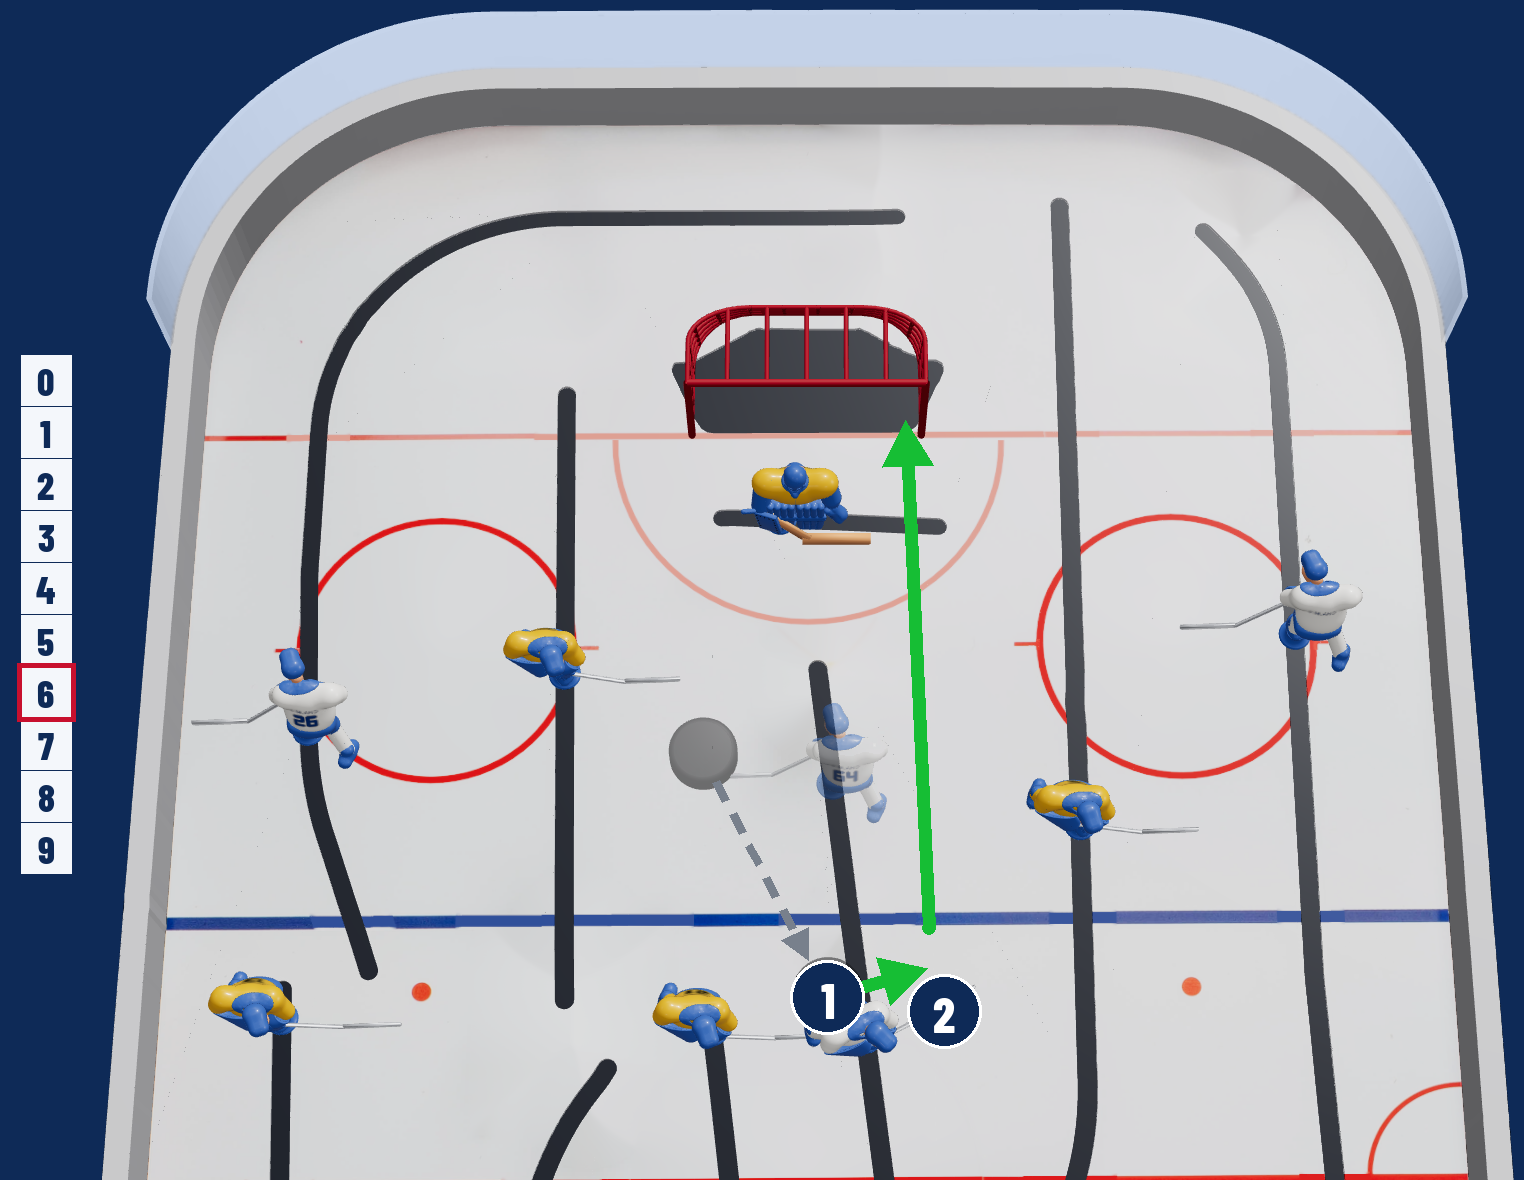
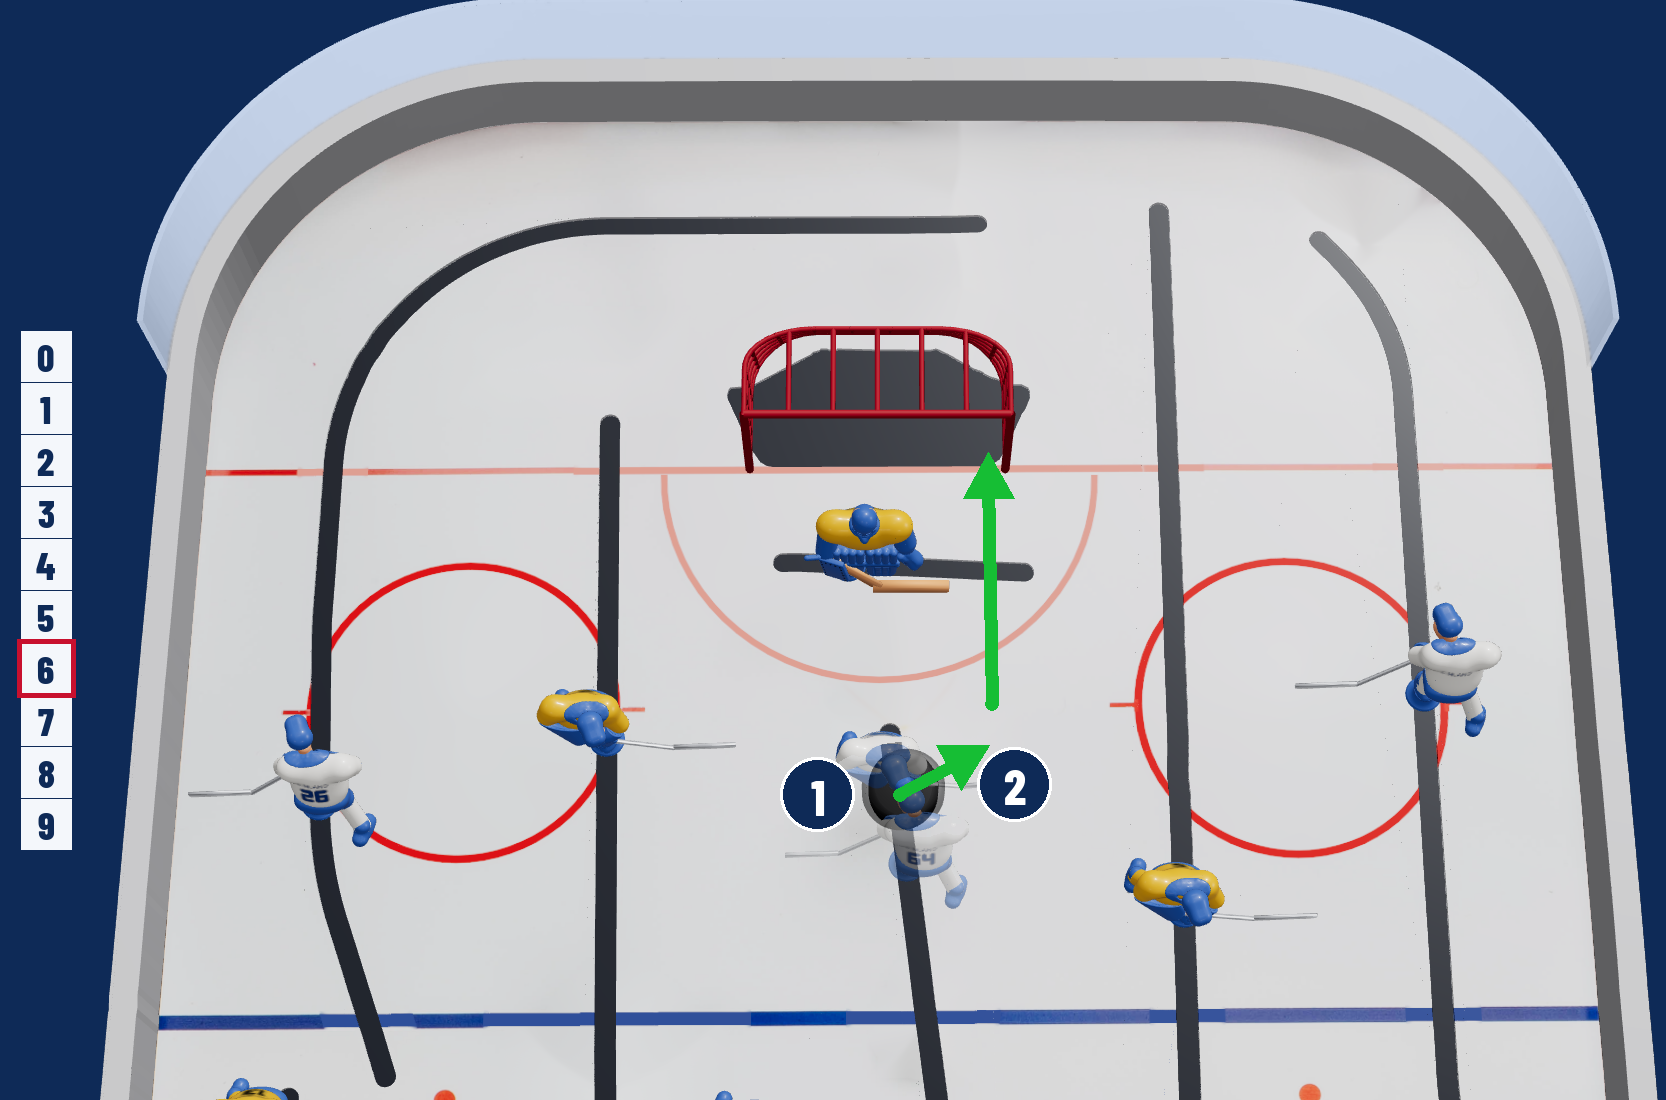
Move pictures: fakie centre tricks start with the puck centred on the slot line
Claude-Session: https://claude.ai/code/session_01BNTiwfvDFK1dJGset6TA2u

diff --git a/scripts/move-pictures/build.py b/scripts/move-pictures/build.py
@@ -394,6 +394,8 @@ def draw(spec, geo):
     marks = {k: np.array(p) for k, p in pts.items() if k.isdigit()}  # where each numbered circle goes
     # a set grip must stay visible: its circle steps to the side, away from the figure, and the arrow starts at the puck
     grips = {str(c["n"]) for c in spec.get("contacts", []) if "puck_local_mm" in c}
+    if "ghost" in geo:  # the start under the ghost stays visible too
+        grips.add(geo["ghost"]["to"])
     for k in grips:
         marks[k] = marks[k] + np.array([-(2 * r + 14), 0.0])
     for a in geo["arrows_mm"]:

diff --git a/docs/move-pictures.md b/docs/move-pictures.md
@@ -107,11 +107,12 @@ Six pictures redrawn after the user's comments on the review page:
   groove, Edwall) or between the stick and the skate (stick groove, Lindahl). Grip positions are ASSUMED from the
   skater keypoints (`data/figure-keypoints.json`). The contact's circle steps aside so the grip stays visible. New view
   `deep` (x 0-446 mm) shows the back of the slots.
-- Fakie Lillstøvel, Näcka, Omvendspjass and Spjass: played from the middle of the centre's slot (the user: impossible
-  from further forward).
+- Fakie Lillstøvel, Näcka, Omvendspjass and Spjass: the puck starts centred ACROSS the centre's slot (on its line), at
+  the same height as the normal move, so the normal and the fakie move share one start (the user's correction of a
+  first try that moved the trick to the middle of the slot's length).
 On the page the redone moves go back to "not reviewed" with the user's comment kept and a "Redrawn" note.
 - Start position of the fakie centre tricks (user's choice 2026-10-14, "ghost + dashed"): spec field `ghost` (figure,
   facing, puck in the start groove). `build.py` adds a second render job `<id>-ghost` with the figure at its start, and
   `--draw` blends that figure in at 50 % around the start position, with a dashed grey arrow from the start puck to
-  contact 1. The start is ASSUMED to be the centre's usual forward spot (formation), heel groove for Fakie Lillstøvel
-  and Fakie Omvendspjass, toe groove for Fakie Näcka and Fakie Spjass (the NTHF text's start groove).
+  contact 1 (drawn only when the start and the trick are apart). For the fakie centre tricks the ghost is the centre
+  right behind the centred puck, facing forward (ASSUMED); the solid figure is the centre turned into the trick.
